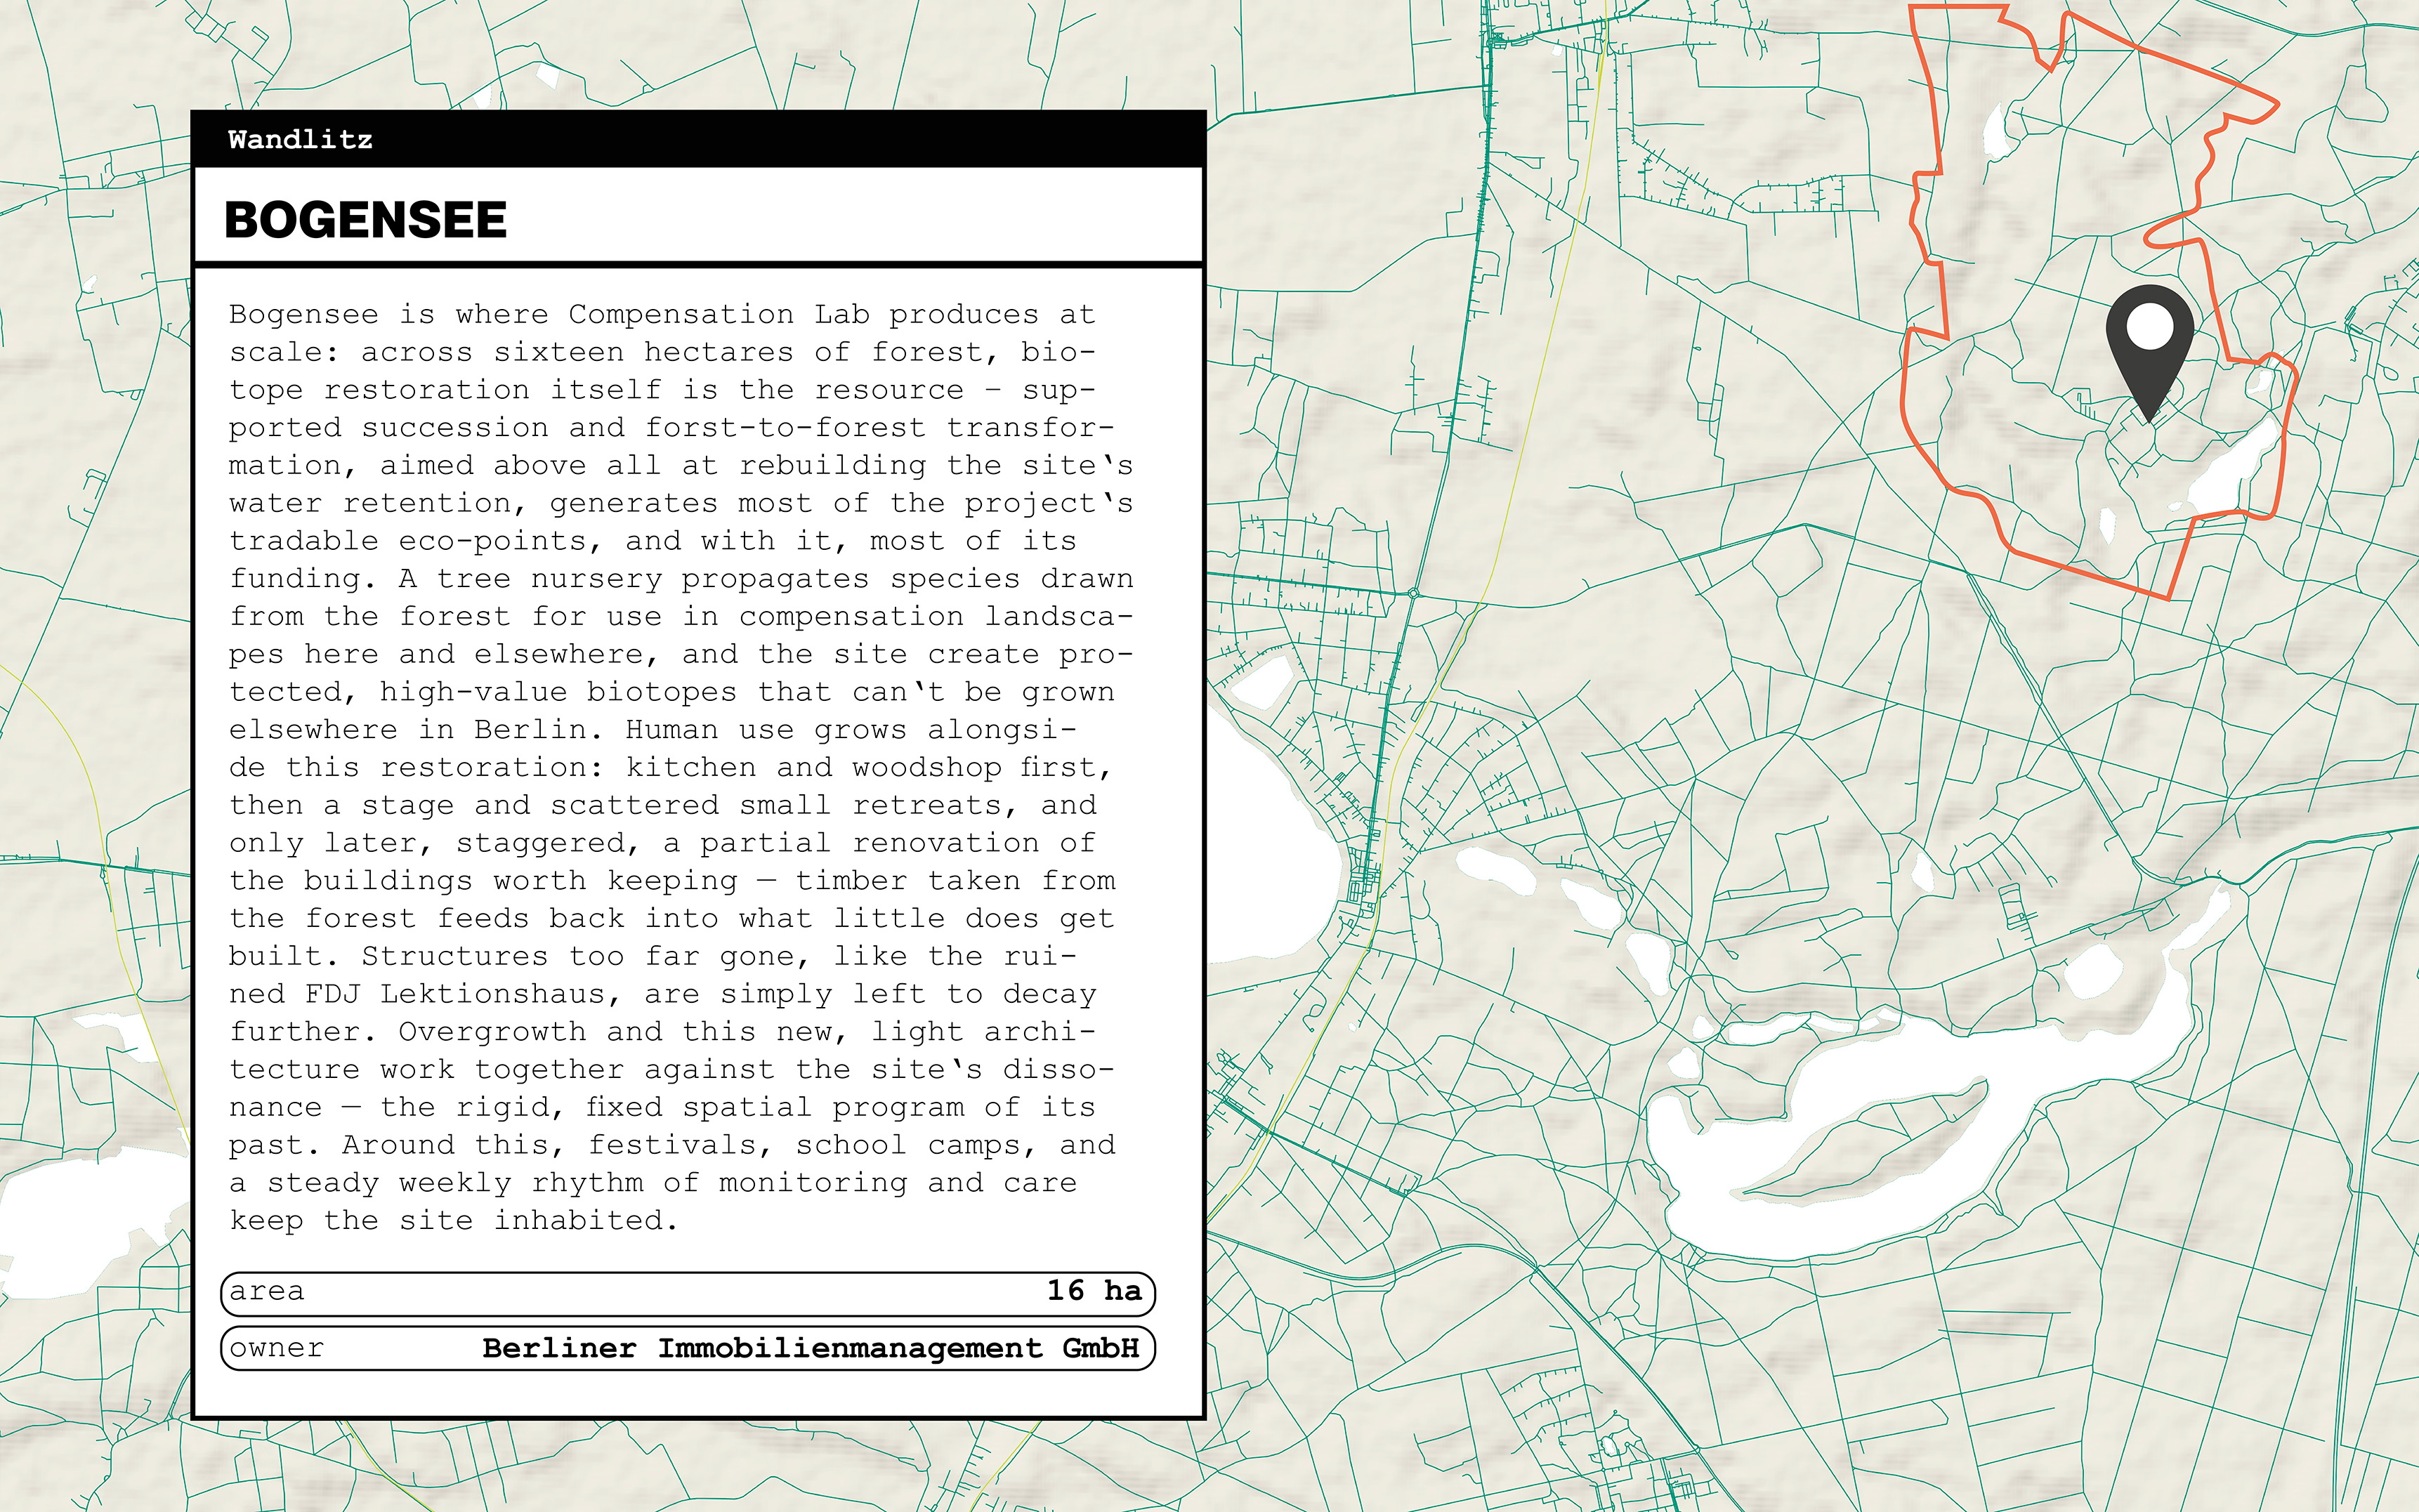
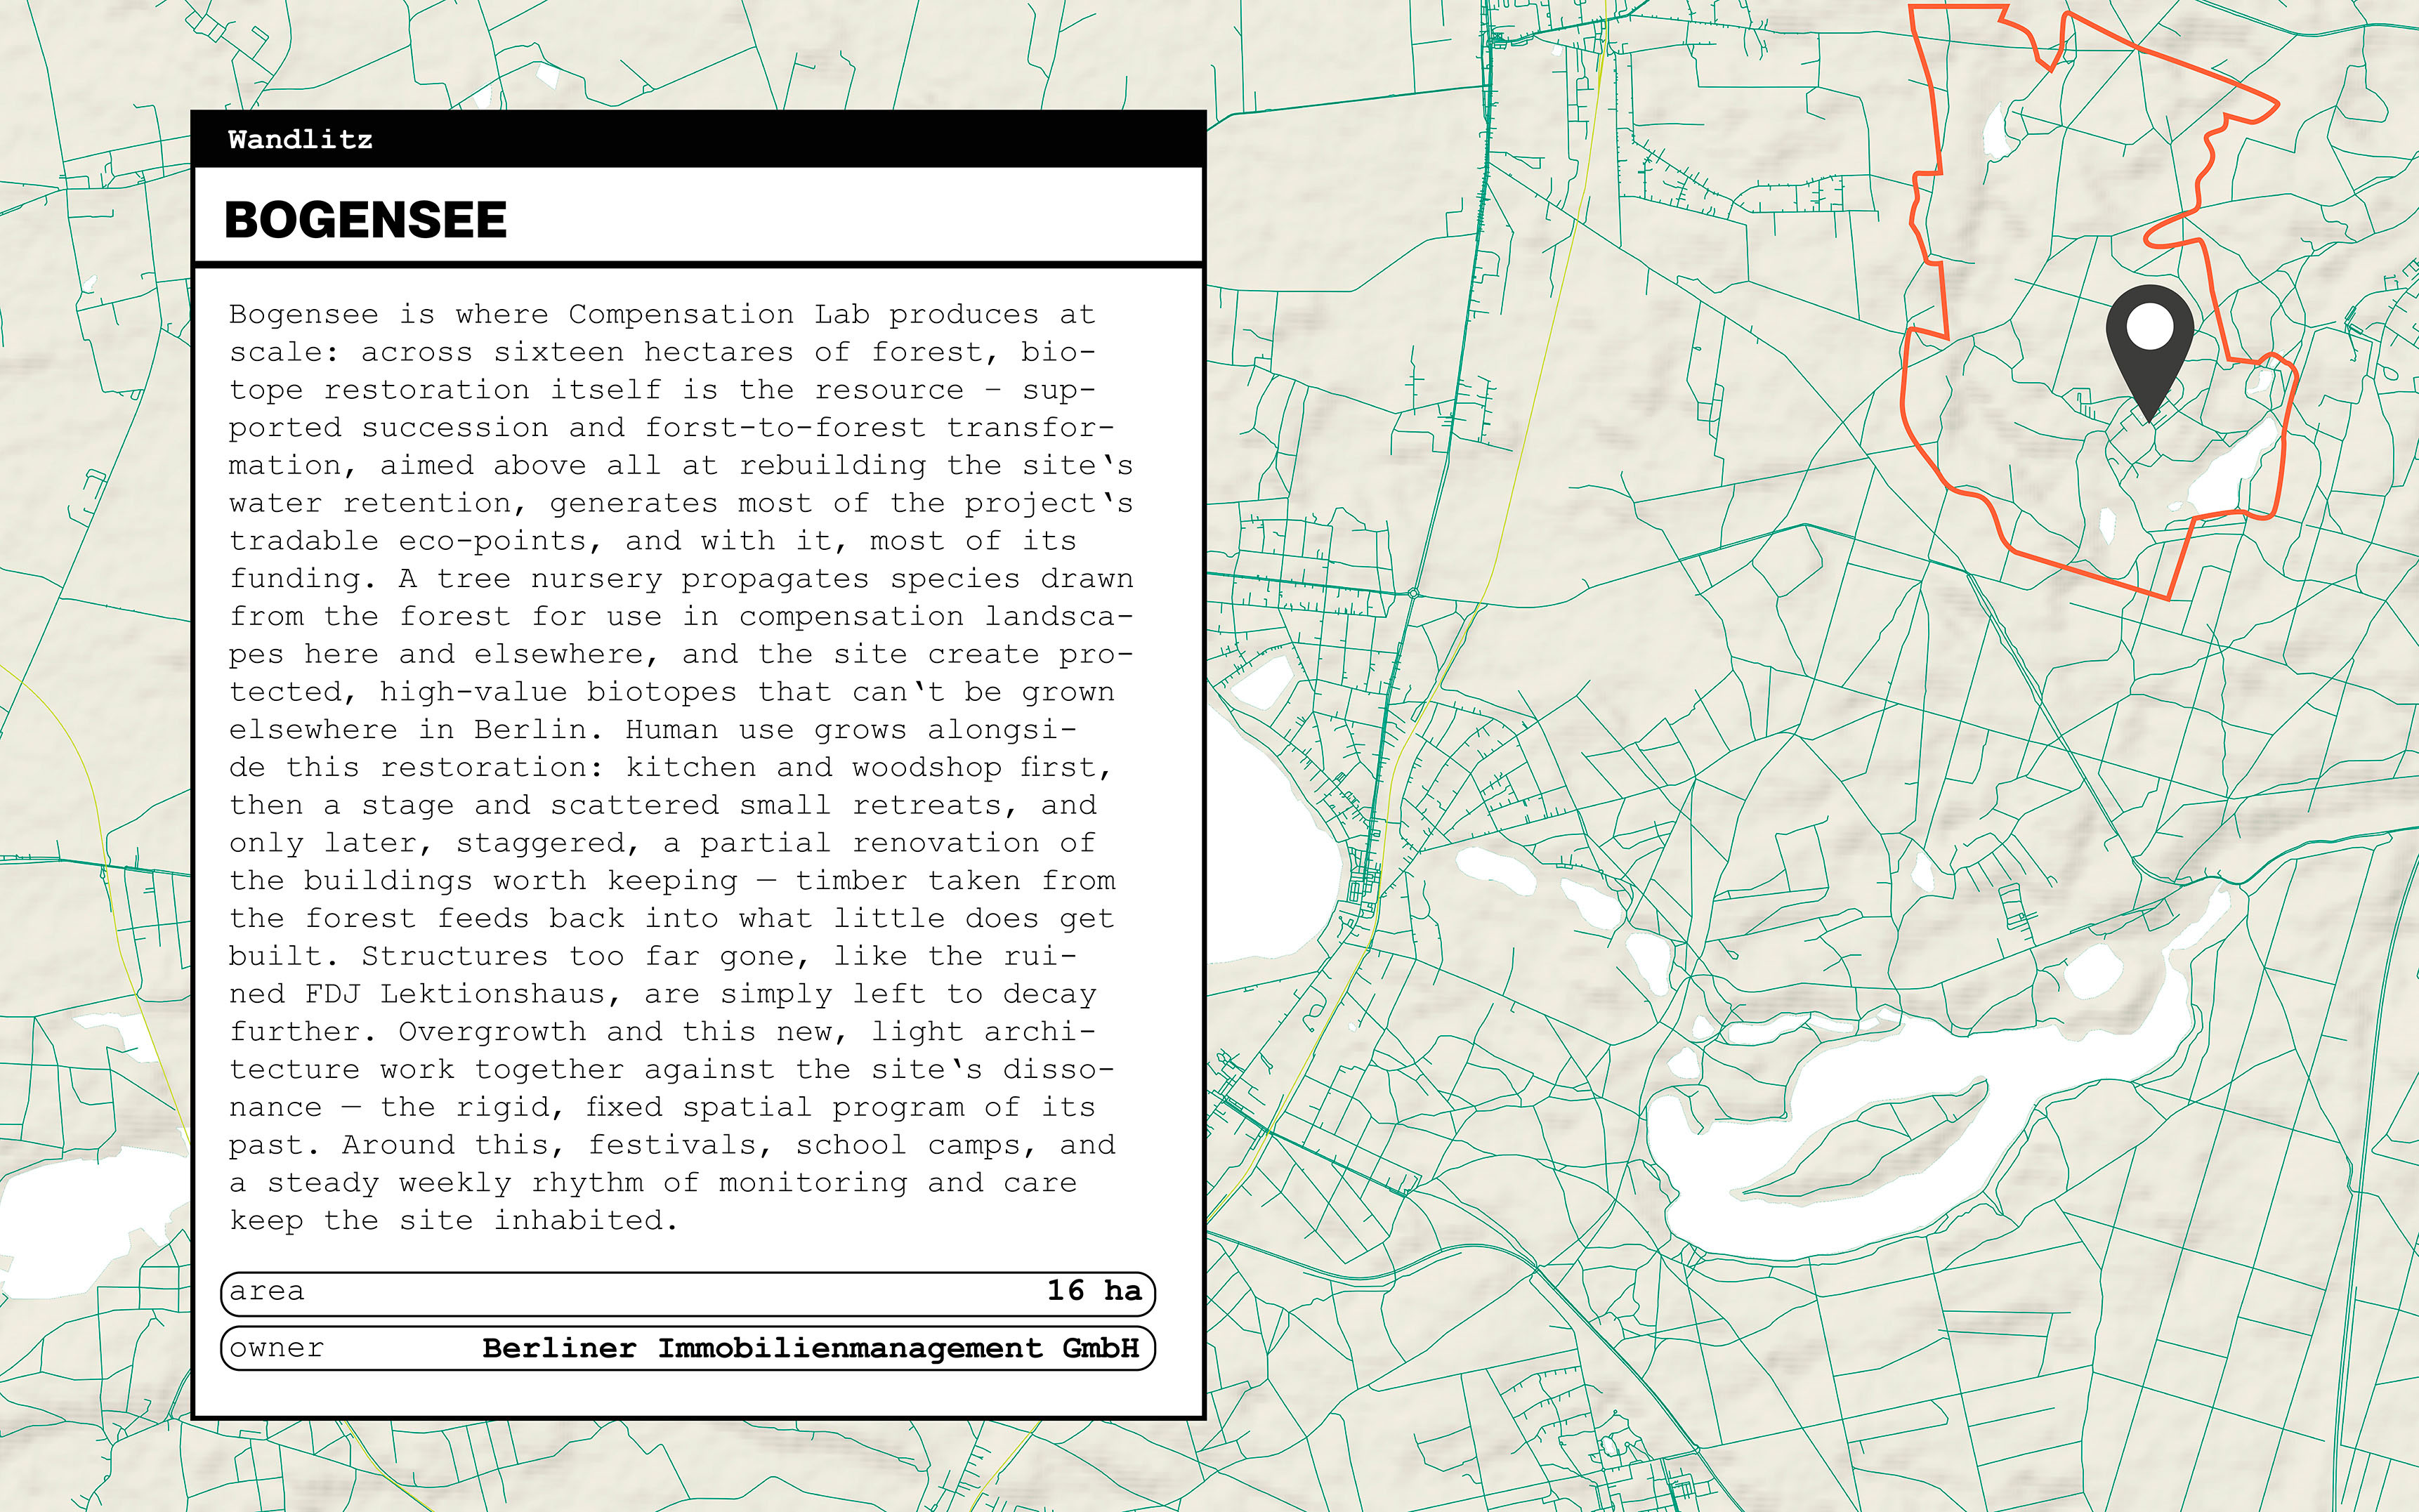
korrigierte Version

diff --git a/index.html b/index.html
@@ -97,7 +97,8 @@
     flex-shrink: 0;
     overflow: hidden;
     background: var(--panel);
-    border: 1px solid rgba(255,255,255,0.16);
+    outline: 1px solid rgba(255,255,255,0.16);
+    outline-offset: -1px;
   }
   .frame-img {
     position: absolute; inset: 0;
@@ -150,25 +151,6 @@
   }
   .seq-play-btn svg { width: 20px; height: 20px; fill: var(--ink); }
 
-  .seq-nav-btn {
-    width: 52px; height: 52px;
-    flex-shrink: 0;
-    border-radius: 50%;
-    background: rgba(255,255,255,0.08);
-    border: 1px solid var(--panel-edge);
-    display: flex; align-items: center; justify-content: center;
-    touch-action: manipulation;
-  }
-  .seq-nav-btn svg { width: 20px; height: 20px; fill: none; stroke: var(--ink); stroke-width: 2; }
-
-  .seq-counter {
-    flex: 1;
-    text-align: center;
-    font-size: 16px;
-    letter-spacing: 0.04em;
-    color: var(--ink-dim);
-  }
-
   .seq-timeline {
     position: relative;
     flex: 1;
@@ -205,6 +187,28 @@
     pointer-events: none;
   }
   .seq-date.active { color: var(--ink); }
+
+  /* ---------- compact overlay nav: plain triangles sitting just beside the frame ---------- */
+  .tile-frame.frame-overlaynav { overflow: visible; }
+  .nav-arrow {
+    position: absolute;
+    top: 50%;
+    transform: translateY(-50%);
+    width: 0; height: 0;
+    border-top: 15px solid transparent;
+    border-bottom: 15px solid transparent;
+    z-index: 5;
+    touch-action: manipulation;
+    filter: drop-shadow(0 1px 2px rgba(0,0,0,0.6));
+  }
+  .nav-arrow.nav-prev {
+    left: -16px;
+    border-right: 20px solid var(--ink);
+  }
+  .nav-arrow.nav-next {
+    right: -16px;
+    border-left: 20px solid var(--ink);
+  }
 
   /* ---------- map row: DIN-A/5:4 frame + tab column sitting OUTSIDE it ---------- */
   .map-row {
@@ -362,37 +366,25 @@
 
 const TITLE_H = 56, CTRL_GAP = 20, CTRL_H = 90, TABS_W = 230;
 const RATIO_LANDSCAPE = 1.41421, RATIO_PORTRAIT = 0.70711, RATIO_MAP = 1.25;
-const RATIO_AXO_LEA = 906.964 / 785.412;       // reale Maße Axo Lea (Mettmannplatz)
-const RATIO_AXO_BOGENSEE = 994.572 / 791.887;  // reale Maße Axo Bogensee (Querformat)
+const RATIO_AXO_LEA = 7441 / 9345;             // reale Rahmenmaße Axo Lea (Mettmannplatz)
+const RATIO_AXO_BOGENSEE = 9246 / 7987;        // reale Rahmenmaße Axo Bogensee
 
 const CONFIG = [
-  {
-    type: "sequence",
-    label: "Präsentation",
-    images: [
-      "präsi.jpg", "präsi2.jpg", "präsi3.jpg", "präsi4.jpg", "präsi5.jpg",
-      "präsi6.jpg", "präsi7.jpg", "präsi8.jpg", "präsi9.jpg", "präsi10.jpg", "präsi11.jpg"
-    ],
-    dates: ["1", "2", "3", "4", "5", "6", "7", "8", "9", "10", "11"],
-    noPlay: true,
-    arrowNav: true,
-    ratio: 16 / 9, w: 380,
-    x: 1310, y: 10
-  },
+
   {
     type: "sequence",
     label: "Mettmannplatz axo",
     images: ["lea-axo-1.jpg", "lea-axo-2.jpg", "lea-axo-3.jpg", "lea-axo-4.jpg"],
     dates: ["spring", "summer", "autumn", "winter"],
-    ratio: RATIO_AXO_LEA, w: 651,
-    x: 120, y: 430
+    ratio: RATIO_AXO_LEA, w: 510,
+    x: 380, y: 458
   },
   {
     type: "image",
     label: "overview Mettmannplatz",
     src: "overview-mettmannplatz.jpg",
-    ratio: 1.6, w: 360,
-    x: 120, y: 1200
+    ratio: 1.6, w: 320,
+    x: 380, y: 1290
   },
   {
     type: "sequence",
@@ -400,16 +392,16 @@ const CONFIG = [
     images: ["lea-plan-1.jpg", "lea-plan-2.jpg", "lea-plan-3.jpg", "lea-plan-4.jpg", "lea-plan-5.jpg"],
     dates: ["2026", "2032", "2037", "2042", "after 2052"],
     finance: "lea-plan-finance.jpg",
-    ratio: RATIO_LANDSCAPE, w: 1100,
-    x: 530, y: 1200
+    ratio: RATIO_LANDSCAPE, w: 990,
+    x: 755, y: 1290
   },
   {
     type: "layered",
     label: "Map",
-    ratio: RATIO_MAP, w: 843,
+    ratio: RATIO_MAP, w: 1235,
     layers: [
-      { src: "analysis.jpg", tab: "analysis" },
       { src: "typology.jpg", tab: "typology" },
+      { src: "analysis.jpg", tab: "analysis" },
       {
         src: "eco.jpg",
         tab: "ecological upgrade",
@@ -424,15 +416,15 @@ const CONFIG = [
       { src: "weakness.jpg", tab: "weakness" },
       { src: "state.owned.jpg", tab: "state owned" }
     ],
-    x: 1310, y: 430
+    x: 1225, y: 185
   },
   {
     type: "sequence",
     label: "Axo bogensee",
     images: ["bogensee-axo-1.jpg", "bogensee-axo-2.jpg", "bogensee-axo-3.jpg", "bogensee-axo-4.jpg"],
     dates: ["spring", "summer", "autumn", "winter"],
-    ratio: RATIO_AXO_BOGENSEE, w: 977,
-    x: 1910, y: 1200
+    ratio: RATIO_AXO_BOGENSEE, w: 815,
+    x: 2005, y: 1290
   },
   {
     type: "sequence",
@@ -440,15 +432,15 @@ const CONFIG = [
     images: ["bogensee-plan-1.jpg", "bogensee-plan-2.jpg", "bogensee-plan-3.jpg", "bogensee-plan-4.jpg", "bogensee-plan-5.jpg"],
     dates: ["2026", "2032", "2037", "2042", "after 2052"],
     finance: "bogensee-plan-finance.jpg",
-    ratio: RATIO_PORTRAIT, w: 720,
-    x: 2950, y: 630
+    ratio: RATIO_PORTRAIT, w: 650,
+    x: 2925, y: 795
   },
   {
     type: "image",
     label: "overview Bogensee",
     src: "overview-bogensee.jpg",
-    ratio: 1.6, w: 360,
-    x: 2950, y: 1863
+    ratio: 1.6, w: 325,
+    x: 2925, y: 1900
   }
 ];
 
@@ -456,6 +448,9 @@ const CONFIG = [
    Ab hier nichts mehr anpassen (Logik für Zoom/Pan/Play/Reiter)
    ============================================================ */
 const CANVAS_W = 3840, CANVAS_H = 2160;
+// Zoom-out knob (kept at 1 — the permanent page-level `zoom` in the CSS above
+// now does the "smaller + pushed together" effect for the whole page).
+const SIZE_SCALE = 1;
 const canvas = document.getElementById('canvas');
 const stage = document.getElementById('stage');
 
@@ -503,16 +498,19 @@ const PAUSE_SVG = '<svg viewBox="0 0 24 24"><path d="M6 5h4v14H6zM14 5h4v14h-4z"
 const sequenceState = new WeakMap();
 
 CONFIG.forEach((entry) => {
-  const frameH = Math.round(entry.w / entry.ratio);
+  const w = Math.round(entry.w * SIZE_SCALE);
+  const frameH = Math.round(w / entry.ratio);
   let totalW, totalH;
   if (entry.type === 'sequence') {
-    totalW = entry.w;
-    totalH = TITLE_H + frameH + CTRL_GAP + CTRL_H;
+    totalW = w;
+    totalH = entry.overlayNav
+      ? TITLE_H + frameH
+      : TITLE_H + frameH + CTRL_GAP + CTRL_H;
   } else if (entry.type === 'layered') {
-    totalW = entry.w + TABS_W;
+    totalW = w + TABS_W;
     totalH = TITLE_H + frameH;
   } else { // "image"
-    totalW = entry.w;
+    totalW = w;
     totalH = TITLE_H + frameH;
   }
 
@@ -534,7 +532,7 @@ CONFIG.forEach((entry) => {
 
   if (entry.type === 'sequence') {
     const frame = document.createElement('div');
-    frame.className = 'tile-frame';
+    frame.className = 'tile-frame' + (entry.overlayNav ? ' frame-overlaynav' : '');
     frame.style.height = frameH + 'px';
 
     const imgEls = entry.images.map((src, i) => {
@@ -546,36 +544,32 @@ CONFIG.forEach((entry) => {
       return img;
     });
 
-    const controls = document.createElement('div');
-    controls.className = 'seq-controls';
-    controls.style.marginTop = CTRL_GAP + 'px';
+    let playBtn = null, pointEls = [], timeline = null;
+    let navPrev = null, navNext = null, counterEl = null;
 
-    let playBtn = null, pointEls = [], dateEls = [], prevBtn = null, nextBtn = null, counterEl = null;
+    if (entry.overlayNav) {
+      // compact nav: plain triangles, sitting just beside the frame, barely overlapping it
+      navPrev = document.createElement('div');
+      navPrev.className = 'nav-arrow nav-prev';
+      frame.appendChild(navPrev);
 
-    if (entry.arrowNav) {
-      prevBtn = document.createElement('div');
-      prevBtn.className = 'seq-nav-btn';
-      prevBtn.innerHTML = '<svg viewBox="0 0 24 24"><path d="M15 5l-7 7 7 7"/></svg>';
+      navNext = document.createElement('div');
+      navNext.className = 'nav-arrow nav-next';
+      frame.appendChild(navNext);
 
-      counterEl = document.createElement('div');
-      counterEl.className = 'seq-counter';
-      counterEl.textContent = '1 / ' + imgEls.length;
-
-      nextBtn = document.createElement('div');
-      nextBtn.className = 'seq-nav-btn';
-      nextBtn.innerHTML = '<svg viewBox="0 0 24 24"><path d="M9 5l7 7-7 7"/></svg>';
-
-      controls.appendChild(prevBtn);
-      controls.appendChild(counterEl);
-      controls.appendChild(nextBtn);
+      inner.appendChild(frame);
     } else {
+      const controls = document.createElement('div');
+      controls.className = 'seq-controls';
+      controls.style.marginTop = CTRL_GAP + 'px';
+
       if (!entry.noPlay) {
         playBtn = document.createElement('div');
         playBtn.className = 'seq-play-btn';
         playBtn.innerHTML = PLAY_SVG;
       }
 
-      const timeline = document.createElement('div');
+      timeline = document.createElement('div');
       timeline.className = 'seq-timeline';
       const line = document.createElement('div');
       line.className = 'seq-line';
@@ -597,10 +591,11 @@ CONFIG.forEach((entry) => {
         dateLabel.textContent = (entry.dates && entry.dates[i]) || ('Datum ' + (i + 1));
         timeline.appendChild(dateLabel);
       });
-      dateEls = timeline.querySelectorAll('.seq-date');
 
       if (playBtn) controls.appendChild(playBtn);
       controls.appendChild(timeline);
+      inner.appendChild(frame);
+      inner.appendChild(controls);
     }
 
     let financeImg = null, financeBtn = null;
@@ -617,14 +612,11 @@ CONFIG.forEach((entry) => {
       titleEl.appendChild(financeBtn);
     }
 
-    inner.appendChild(frame);
-    inner.appendChild(controls);
-
     sequenceState.set(item, {
-      imgEls, tickEls: pointEls, dateEls,
+      imgEls, tickEls: pointEls, dateEls: timeline ? timeline.querySelectorAll('.seq-date') : [],
       playBtn, idx: 0, playing: false, timer: null,
       financeImg, financeBtn, financeActive: false,
-      prevBtn, nextBtn, counterEl
+      navPrev, navNext, counterEl
     });
 
   } else if (entry.type === 'layered') {
@@ -634,7 +626,7 @@ CONFIG.forEach((entry) => {
 
     const frame = document.createElement('div');
     frame.className = 'tile-frame';
-    frame.style.width = entry.w + 'px';
+    frame.style.width = w + 'px';
     frame.style.height = '100%';
 
     const tabsCol = document.createElement('div');
@@ -752,7 +744,7 @@ function mapSelect(item, chosenEl) {
 
 // --- pan & zoom (pointer-events based, multi-touch pinch) ---
 let scale = 1, tx = 0, ty = 0;
-const MIN_SCALE = 0.35, MAX_SCALE = 4;
+const MIN_SCALE = 0.35, MAX_SCALE = 8;
 const pointers = new Map();
 let dragMoved = false;
 let lastDist = null;
@@ -849,7 +841,8 @@ function handlePointerUp(e) {
     const financeBtnEl = target.closest('.finance-btn');
     const playBtnEl = !financeBtnEl ? target.closest('.seq-play-btn') : null;
     const tickEl = !playBtnEl && !financeBtnEl ? target.closest('.seq-point') : null;
-    const navBtnEl = target.closest('.seq-nav-btn');
+    const navPrevEl = !tickEl && !playBtnEl && !financeBtnEl ? target.closest('.nav-prev') : null;
+    const navNextEl = !navPrevEl && !tickEl && !playBtnEl && !financeBtnEl ? target.closest('.nav-next') : null;
 
     if (cellEl) {
       hitInteractive = true;
@@ -867,15 +860,6 @@ function handlePointerUp(e) {
       const item = playBtnEl.closest('.item');
       const state = sequenceState.get(item);
       if (state) { state.playing ? seqStop(state) : seqStart(state); }
-    } else if (navBtnEl) {
-      hitInteractive = true;
-      const item = navBtnEl.closest('.item');
-      const state = sequenceState.get(item);
-      if (state) {
-        const dir = (navBtnEl === state.prevBtn) ? -1 : 1;
-        const next = (state.idx + dir + state.imgEls.length) % state.imgEls.length;
-        seqSetActive(state, next);
-      }
     } else if (tickEl) {
       hitInteractive = true;
       const item = tickEl.closest('.item');
@@ -885,6 +869,16 @@ function handlePointerUp(e) {
         seqStop(state);
         seqSetActive(state, idx);
       }
+    } else if (navPrevEl) {
+      hitInteractive = true;
+      const item = navPrevEl.closest('.item');
+      const state = sequenceState.get(item);
+      if (state) seqSetActive(state, (state.idx - 1 + state.imgEls.length) % state.imgEls.length);
+    } else if (navNextEl) {
+      hitInteractive = true;
+      const item = navNextEl.closest('.item');
+      const state = sequenceState.get(item);
+      if (state) seqSetActive(state, (state.idx + 1) % state.imgEls.length);
     }
   }
 